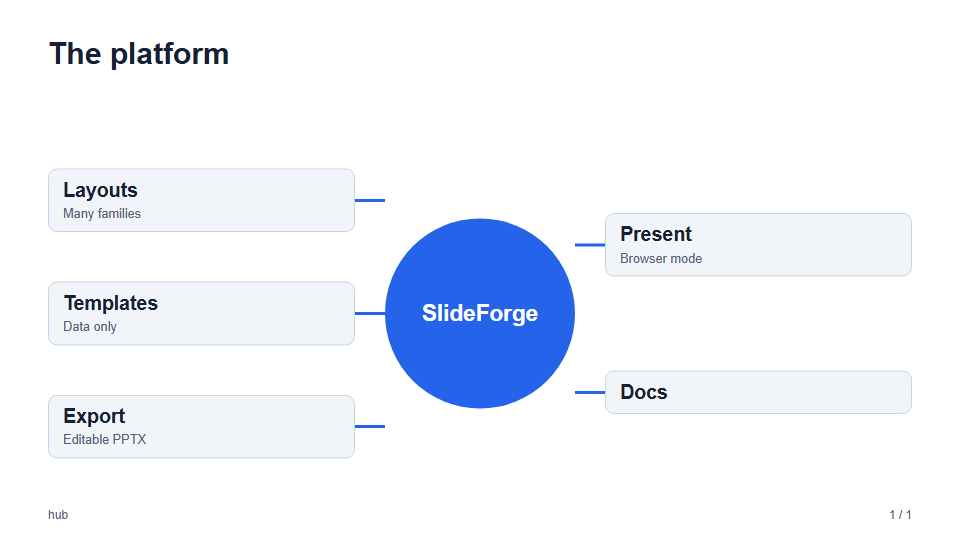
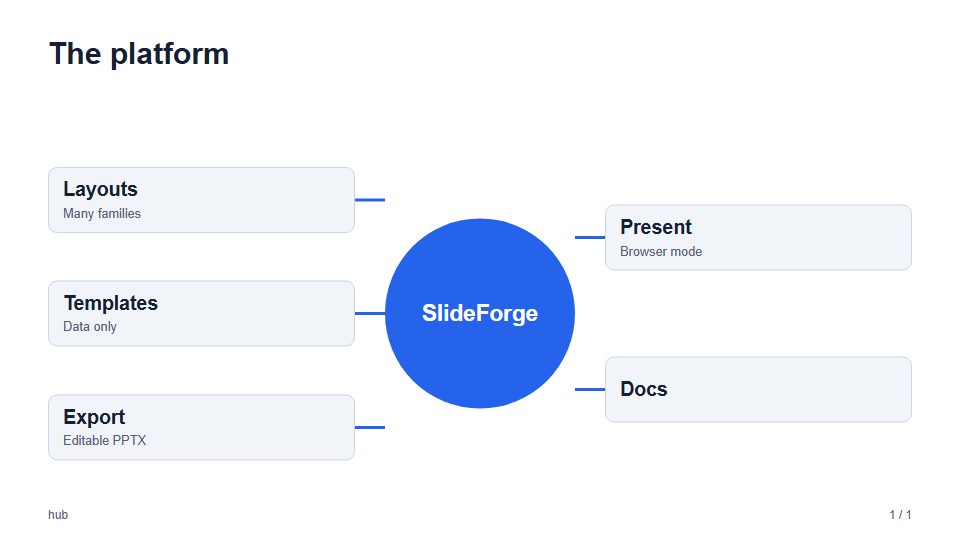
Make process steps and hub items equal in size

diff --git a/src/layouts/process/process.css b/src/layouts/process/process.css
@@ -1,18 +1,18 @@
 /* process: numbered steps in order, joined by arrows. */
-.sf-process { list-style: none; margin: 0; padding: 0; height: 100%; display: flex; align-items: center; gap: 18px; }
-.sf-step { flex: 1 1 0; min-width: 0; align-self: center; display: flex; flex-direction: column; align-items: center; gap: 20px; padding: var(--sf-spacing-card-padding) 24px; text-align: center; background: var(--sf-card-fill); border: var(--sf-border-width) solid var(--sf-border); border-radius: var(--sf-border-radius); }
+.sf-process { list-style: none; margin: 0; padding: 0; height: 100%; display: flex; flex-wrap: wrap; align-content: center; align-items: stretch; gap: 18px; }
+.sf-step { flex: 1 1 0; min-width: 0; display: flex; flex-direction: column; align-items: center; justify-content: center; gap: 20px; padding: var(--sf-spacing-card-padding) 24px; text-align: center; background: var(--sf-card-fill); border: var(--sf-border-width) solid var(--sf-border); border-radius: var(--sf-border-radius); }
 .sf-step-number { flex: none; display: flex; align-items: center; justify-content: center; width: 72px; height: 72px; border-radius: 50%; background: var(--sf-accent); color: var(--sf-on-accent); font-size: var(--sf-type-card-title); font-weight: var(--sf-type-bold); }
 .sf-step-body { display: flex; flex-direction: column; gap: 10px; min-width: 0; }
 .sf-step-title { font-size: var(--sf-type-card-title); font-weight: var(--sf-type-bold); line-height: var(--sf-type-title-leading); }
 .sf-step-text { color: var(--sf-muted); font-size: var(--sf-type-card-body); line-height: var(--sf-type-subtitle-leading); }
-.sf-process-arrow { flex: none; color: var(--sf-accent); font-size: 60px; font-weight: var(--sf-type-bold); line-height: 1; }
+.sf-process-arrow { flex: none; align-self: center; color: var(--sf-accent); font-size: 60px; font-weight: var(--sf-type-bold); line-height: 1; }
 .sf-process[data-count="5"] .sf-step-title, .sf-process[data-count="6"] .sf-step-title { font-size: calc(var(--sf-type-card-title) * 0.85); }
 .sf-process[data-count="5"] .sf-step-text, .sf-process[data-count="6"] .sf-step-text { font-size: calc(var(--sf-type-card-body) * 0.8); }
 .sf-process[data-count="5"] .sf-step, .sf-process[data-count="6"] .sf-step { padding-left: 12px; padding-right: 12px; }
 .sf-process[data-count="6"] .sf-process-arrow, .sf-process[data-count="5"] .sf-process-arrow { font-size: 42px; }
 /* vertical: stacked rows, the number beside the text. */
-.sf-variant-vertical .sf-process { flex-direction: column; align-items: stretch; justify-content: center; gap: 6px; }
-.sf-variant-vertical .sf-step { align-self: stretch; flex: 0 1 auto; flex-direction: row; align-items: center; gap: var(--sf-spacing-card); padding: 14px var(--sf-spacing-card-padding); text-align: left; }
+.sf-variant-vertical .sf-process { flex-wrap: nowrap; flex-direction: column; align-items: stretch; justify-content: center; gap: 6px; }
+.sf-variant-vertical .sf-step { flex: 0 1 auto; flex-direction: row; align-items: center; justify-content: flex-start; gap: var(--sf-spacing-card); padding: 14px var(--sf-spacing-card-padding); text-align: left; }
 .sf-variant-vertical .sf-step-number { width: 60px; height: 60px; }
 .sf-variant-vertical .sf-step-body { flex-direction: row; align-items: baseline; gap: 24px; flex-wrap: wrap; }
 .sf-variant-vertical .sf-process-arrow { align-self: flex-start; padding-left: 48px; font-size: 40px; line-height: 1; }

diff --git a/src/layouts/hub/hub.css b/src/layouts/hub/hub.css
@@ -1,9 +1,9 @@
 /* hub: a circle at the center with items on both sides, joined to it by lines. */
 .sf-hub { height: 100%; display: grid; grid-template-columns: minmax(0, 1fr) 380px minmax(0, 1fr); align-items: stretch; }
-.sf-hub-side { list-style: none; margin: 0; padding: 0; display: flex; flex-direction: column; justify-content: space-evenly; gap: 20px; }
-.sf-hub-row { display: flex; align-items: center; }
-.sf-hub-line { flex: none; width: 60px; height: 6px; background: var(--sf-accent); }
-.sf-hub-item { flex: 1; min-width: 0; display: flex; flex-direction: column; gap: 6px; padding: 18px 28px; background: var(--sf-card-fill); border: var(--sf-border-width) solid var(--sf-border); border-radius: var(--sf-border-radius); }
+.sf-hub-side { list-style: none; margin: 0; padding: 0; display: grid; grid-auto-rows: 132px; align-content: space-evenly; gap: 20px; }
+.sf-hub-row { display: flex; align-items: stretch; }
+.sf-hub-line { flex: none; align-self: center; width: 60px; height: 6px; background: var(--sf-accent); }
+.sf-hub-item { flex: 1; min-width: 0; display: flex; flex-direction: column; justify-content: center; gap: 6px; padding: 18px 28px; background: var(--sf-card-fill); border: var(--sf-border-width) solid var(--sf-border); border-radius: var(--sf-border-radius); }
 .sf-hub-title { font-size: var(--sf-type-card-title); font-weight: var(--sf-type-bold); line-height: var(--sf-type-title-leading); }
 .sf-hub-text { color: var(--sf-muted); font-size: calc(var(--sf-type-card-body) * 0.85); line-height: var(--sf-type-subtitle-leading); }
 .sf-hub-right .sf-hub-item { text-align: left; }
